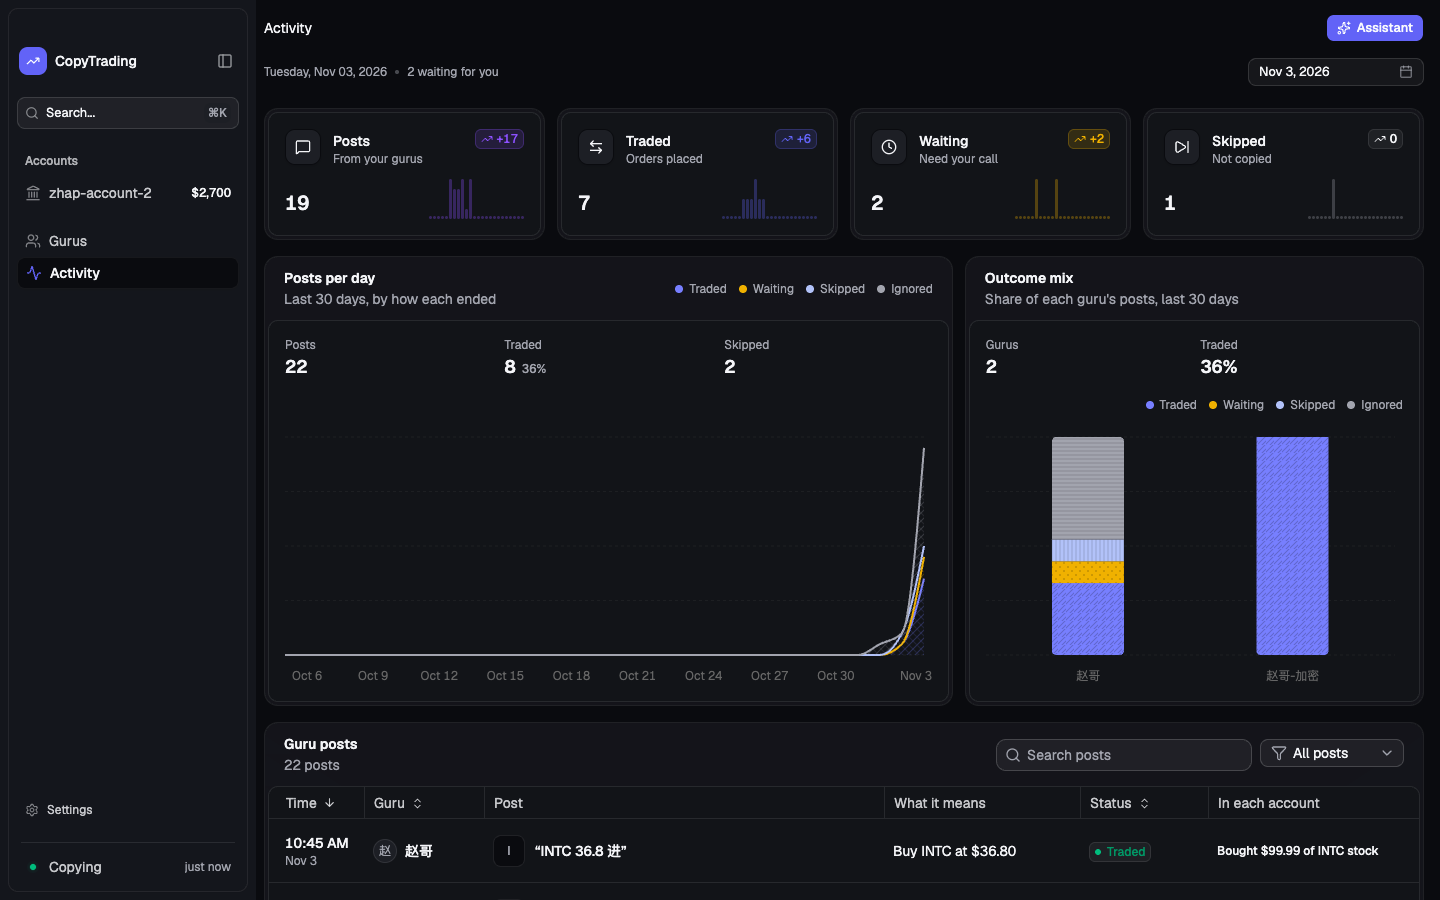
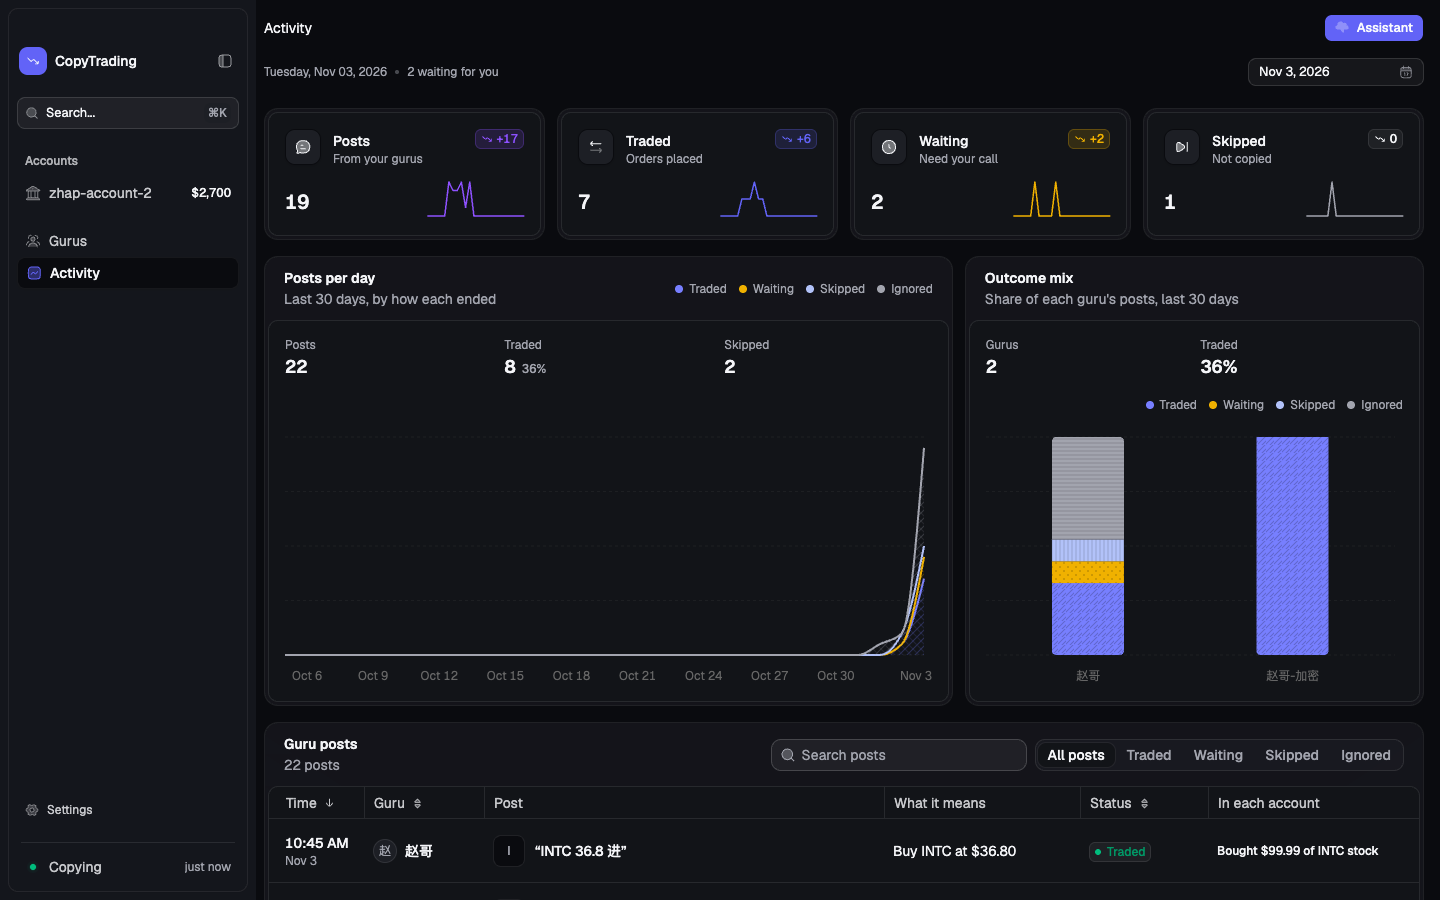
Release 0.1.0-beta.9
Changelog section for the polish release (gurus compared side by side, one
icon set, rolling figures, sliding selections, stacked fills, a calendar
and steppers), README download links and screenshots refreshed, with the
gurus comparison added.

Claude-Session: https://claude.ai/code/session_01FSmZjkTWfnTTjHLmHvuQGL

diff --git a/README.md b/README.md
@@ -17,7 +17,7 @@
 </p>
 
 <p align="center">
-  <a href="https://github.com/YZXBiz/copytrading/releases/download/v0.1.0-beta.8/CopyTrading-0.1.0-beta.8.dmg"><img src="https://img.shields.io/badge/Download_for_macOS-0.1.0--beta.8-1d1d1f?style=for-the-badge&logo=apple&logoColor=white" alt="Download CopyTrading for macOS" height="36"></a>
+  <a href="https://github.com/YZXBiz/copytrading/releases/download/v0.1.0-beta.9/CopyTrading-0.1.0-beta.9.dmg"><img src="https://img.shields.io/badge/Download_for_macOS-0.1.0--beta.9-1d1d1f?style=for-the-badge&logo=apple&logoColor=white" alt="Download CopyTrading for macOS" height="36"></a>
 </p>
 
 <p align="center">
@@ -40,13 +40,19 @@ CopyTrading is a macOS app that reads the stock calls traders post on Discord, t
 <br>
 <table>
   <tr>
-    <td width="33%"><a href="docs/assets/guru.png"><img src="docs/assets/guru.png" alt="A guru's page: posts today, win rate, realized and open profit, the realized profit by day against break-even, the best and worst call, and every post on one timeline"></a></td>
-    <td width="33%"><a href="docs/assets/activity.png"><img src="docs/assets/activity.png" alt="Activity: the day's posts, trades, waiting calls and skips with hourly trends, posts per day by outcome, and every post in a searchable table with what came of it in each account"></a></td>
-    <td width="33%"><a href="docs/assets/connections.png"><img src="docs/assets/connections.png" alt="Connections: Discord, the model that reads posts, a paper broker account and a guru, all saved"></a></td>
+    <td width="50%"><a href="docs/assets/guru.png"><img src="docs/assets/guru.png" alt="A guru's page: posts today, win rate, realized and open profit, the realized profit by day against break-even, the best and worst call, and every post on one timeline"></a></td>
+    <td width="50%"><a href="docs/assets/activity.png"><img src="docs/assets/activity.png" alt="Activity: the day's posts, trades, waiting calls and skips with hourly trends, posts per day by outcome, and every post in a searchable table with what came of it in each account"></a></td>
   </tr>
   <tr>
     <td align="center"><sub><b>A guru</b>: what copying them has made</sub></td>
     <td align="center"><sub><b>Activity</b>: every post and what came of it</sub></td>
+  </tr>
+  <tr>
+    <td width="50%"><a href="docs/assets/gurus.png"><img src="docs/assets/gurus.png" alt="Gurus compared side by side: posts today, win rate, realized profit with its trend, and open profit"></a></td>
+    <td width="50%"><a href="docs/assets/connections.png"><img src="docs/assets/connections.png" alt="Connections: Discord, the model that reads posts, a paper broker account and a guru, all saved"></a></td>
+  </tr>
+  <tr>
+    <td align="center"><sub><b>Gurus</b>: compared side by side</sub></td>
     <td align="center"><sub><b>Connections</b>: set up top to bottom</sub></td>
   </tr>
 </table>
@@ -58,10 +64,10 @@ CopyTrading is a macOS app that reads the stock calls traders post on Discord, t
 - **Your limits, per account.** Daily loss, per-order, per-symbol, and total exposure limits are checked before every copied buy. Each account has its own **Start Copying** and **Stop Copying**.
 - **Many traders, many accounts.** Each account follows one guru and sizes its calls from that guru's full position, so several gurus copy side by side into their own accounts, paper and live together.
 - **Every position traces to its post.** Each copied buy is kept as a lot that names the post behind it, and you can sell any lot on its own. Shares you trade yourself in Alpaca are counted as yours on the next sync.
-- **See how a guru is doing.** Each guru's page shows the realized profit of the trades copied from them, their win rate, and their best and worst call.
+- **See how a guru is doing.** Each guru's page shows the realized profit of the trades copied from them, their win rate, and their best and worst call; with several gurus, Gurus compares them side by side.
 - **Always live.** Balances, positions, and the balance chart are read from your broker even while copying is paused, held prices update every few seconds, and a fill arrives as a notice in the app. The menu bar shows your balance and today's change.
 - **Calls that need you, in one place.** A call the app should not place on its own (a suggestion, a conditional order, a sell of a buy it never made) waits on the account page with **Copy** and **Skip**, or **Skip all**.
-- **Fast to get around.** ⌘K finds any page, account, guru, post, or action; ⌘1 to ⌘4 open Accounts, Gurus, Activity, and Connections; ⌘, opens Settings. Dark and light themes.
+- **Fast to get around.** ⌘K finds any page, account, guru, post, or action; ⌘1 to ⌘4 open Accounts, Gurus, Activity, and Connections; ⌘, opens Settings. Dark and light themes, one consistent icon set, and motion that settles quickly: figures roll to new values, selections slide, and charts draw in once.
 - **An assistant that cannot trade on its own.** ⌘J answers from your real posts and accounts. Anything that could place an order waits for your approval in the app.
 - **Private by design.** Keys are encrypted on your Mac with a key kept in your login Keychain and never shown on screen. The app talks to Discord, your model provider, your broker, GitHub when it checks for updates, and a logo service that is sent only the tickers you hold.
 
@@ -71,13 +77,13 @@ Works with a dozen hosted model services, local models through Ollama, or any Op
 
 You need an Apple silicon Mac running macOS 26 or later.
 
-1. **[Download CopyTrading for macOS](https://github.com/YZXBiz/copytrading/releases/download/v0.1.0-beta.8/CopyTrading-0.1.0-beta.8.dmg)**.
+1. **[Download CopyTrading for macOS](https://github.com/YZXBiz/copytrading/releases/download/v0.1.0-beta.9/CopyTrading-0.1.0-beta.9.dmg)**.
 2. Open the DMG and drag **CopyTrading** into **Applications**.
 3. Open CopyTrading. Preview builds are not yet notarized by Apple, so the first time macOS blocks it: go to **System Settings → Privacy & Security** and choose **Open Anyway**. You only do this once.
 
 Every release lists SHA-256 checksums, and [releases](docs/releases.md) explains how to verify a download.
 
-**Coming from an earlier version?** 0.1.0-beta.7 offers this version as an update. On its first launch the new app copies your saved keys from the old app once, so macOS asks whether CopyTrading may read them; choose **Always Allow**. Your setup, accounts, and history carry over unchanged, and copying picks up where it was.
+**Coming from an earlier version?** 0.1.0-beta.7 offers the new app as an update. On its first launch the new app copies your saved keys from the old app once, so macOS asks whether CopyTrading may read them; choose **Always Allow**. Your setup, accounts, and history carry over unchanged, and copying picks up where it was.
 
 **Updates.** The app checks GitHub for a new version after launch and every six hours, and **Check for Updates…** in the app menu checks at once. Preview builds are not signed with a lasting identity, so macOS will not let an installed copy replace itself: the app tells you when a version is out and opens its release page, and the new DMG replaces the app in Applications.
 

diff --git a/CHANGELOG.md b/CHANGELOG.md
@@ -2,6 +2,19 @@
 
 User-visible changes for each release are recorded here. Every GitHub release's notes come from its section. See [releases](docs/releases.md) for how a release is cut and [validation](docs/validation.md) for what is and is not proven.
 
+## 0.1.0-beta.9 — developer preview
+
+Polish on the new app: one icon set, motion that settles quickly, a calendar and steppers where you type, and gurus compared side by side.
+
+- **Gurus compared side by side.** With two or more gurus, Gurus is a table: the accounts each copies into, whether it's copying, posts today with traded and waiting counts, win rate, realized profit with its trend, and open profit, sorted by realized profit. With one guru, Gurus still opens their page.
+- **One icon set across the app.** Every icon now comes from one duotone set; Start and Stop Copying and the Assistant button animate on hover.
+- **Figures roll to new values.** Balances, stats and prices roll digit by digit on a short spring; a screen opens with its figures in place, and Reduce Motion shows them at once.
+- **Selections slide.** The balance range, the Activity and guru filters, and a new Positions sort (Value, Gain, A–Z) move one highlight between options.
+- **Fills stack.** Several fills at once stack as notices that spread when you hover and wait while you read.
+- **Stat cards draw their line once.** Activity and guru cards draw their trend when the screen opens and stay still after that.
+- **A calendar for Activity's day.** Pick any past day; a future day becomes today.
+- **Steppers in Edit Limits.** Dollar, percent and count fields step up and down or drag to adjust; saving still asks first.
+
 ## 0.1.0-beta.8 — developer preview
 
 **A new CopyTrading.** The app is rebuilt from the ground up: the same engine, trading rules, setup, and history, in a faster, clearer desktop app with a dark trading-desk look. Your setup, accounts, and records carry over; on first launch it copies your saved keys from the old app once, so macOS asks whether CopyTrading may read them (choose **Always Allow**).
